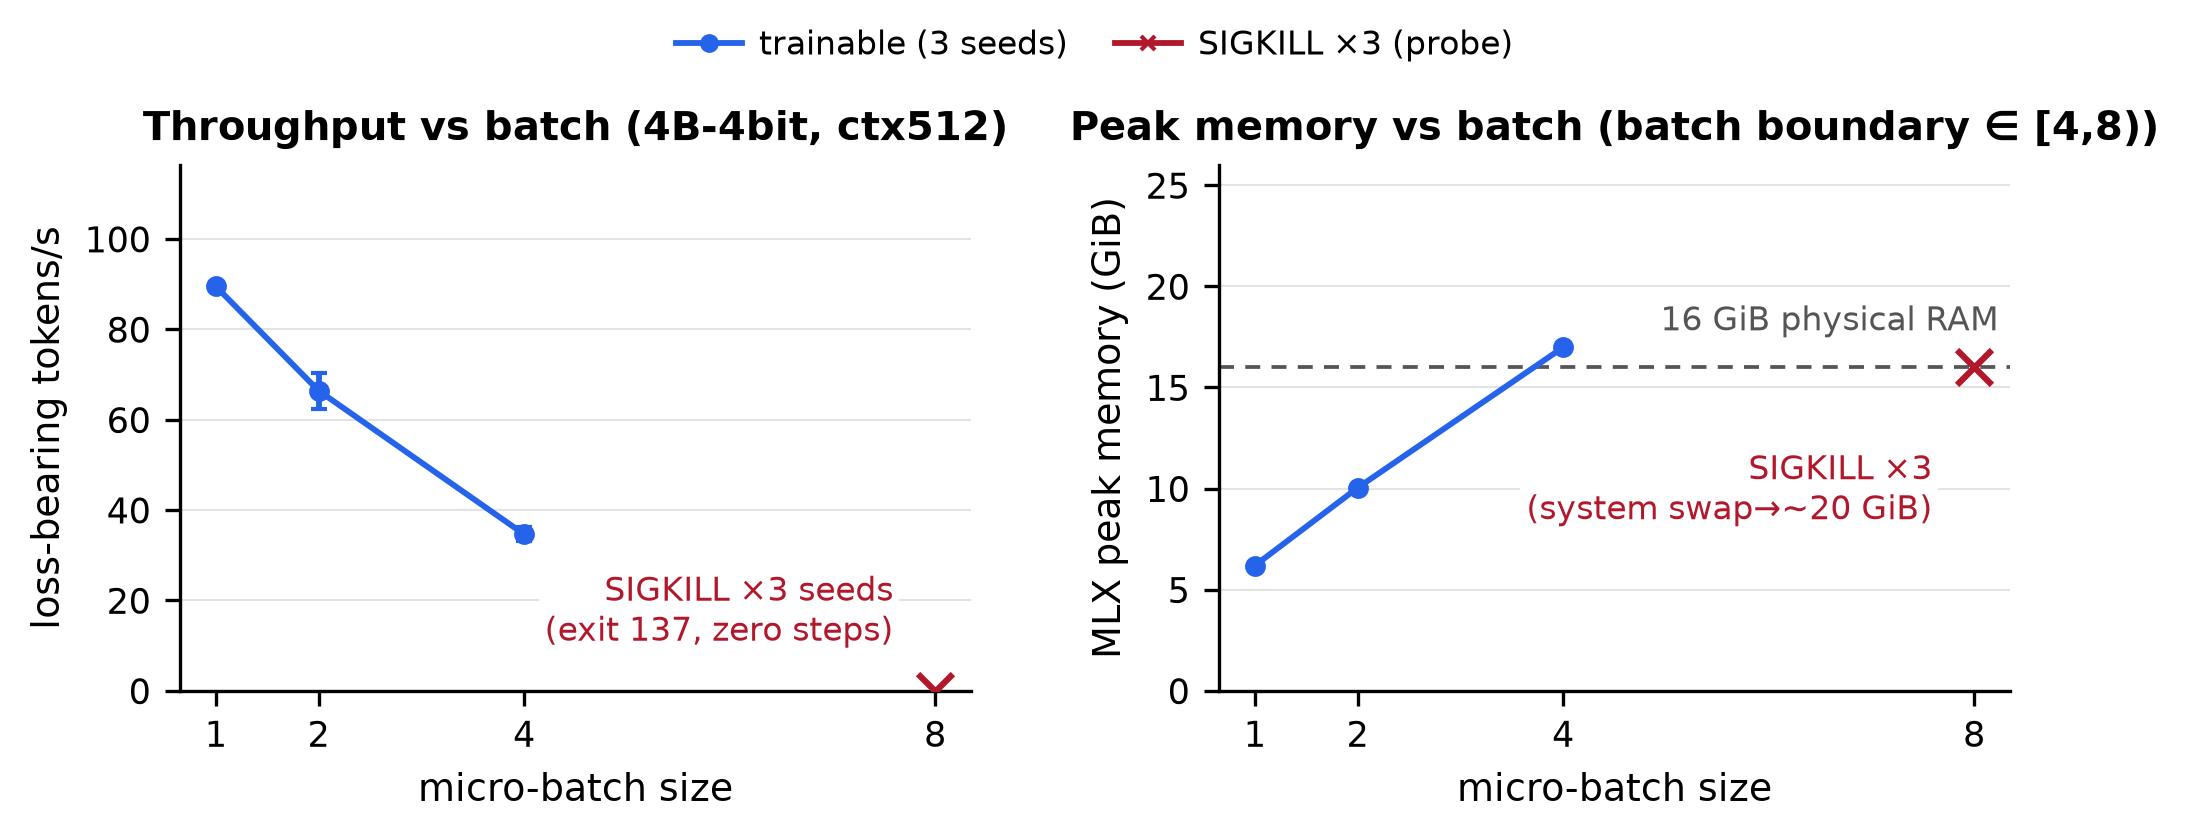
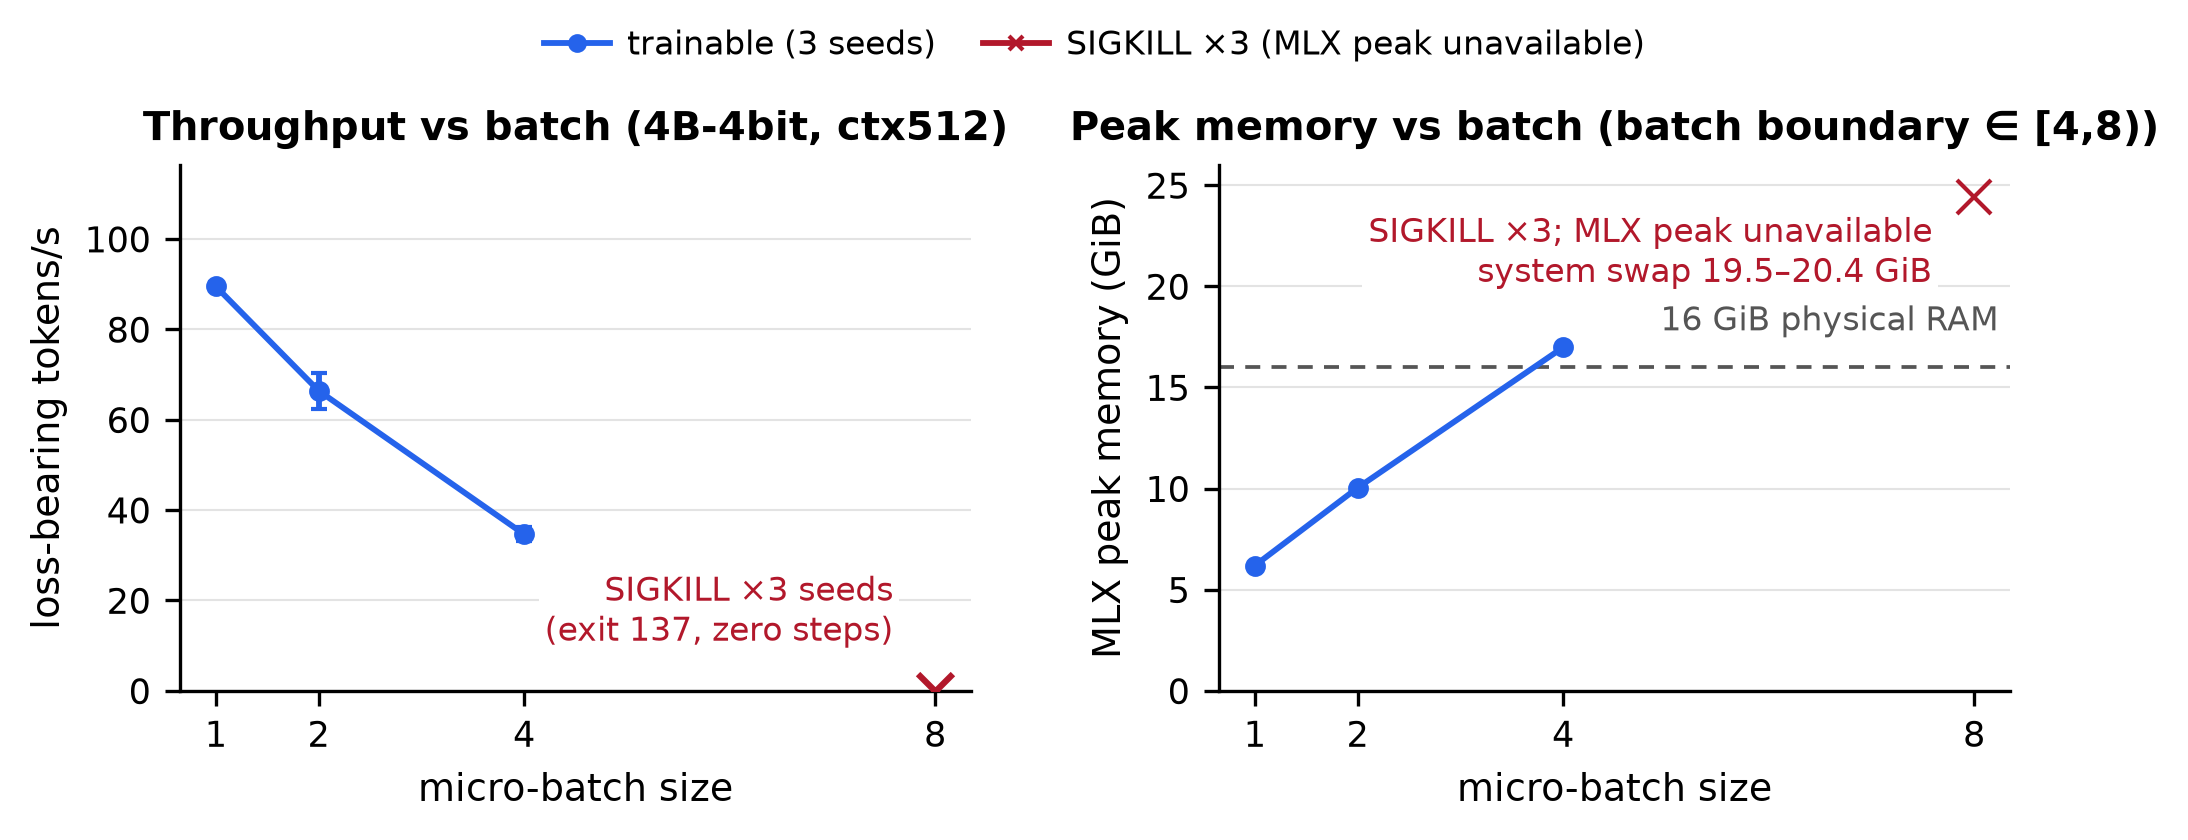
final: freeze arxiv v1 research artifact

diff --git a/tests/test_public_claim_consistency.py b/tests/test_public_claim_consistency.py
@@ -1,0 +1,78 @@
+"""Lightweight invariants for the frozen public claim chain."""
+
+from __future__ import annotations
+
+import csv
+import json
+import sys
+from pathlib import Path
+
+ROOT = Path(__file__).resolve().parents[1]
+sys.path.insert(0, str(ROOT / "src"))
+
+from analysis.coverage import build_coverage  # noqa: E402
+from analysis.flatten import build_tables  # noqa: E402
+
+
+def _ledger() -> dict[str, dict[str, str]]:
+    with (ROOT / "research" / "claim_ledger.csv").open(newline="", encoding="utf-8") as f:
+        return {row["claim_id"]: row for row in csv.DictReader(f)}
+
+
+def test_frozen_public_counts_and_manifest_warnings() -> None:
+    experiments, steps = build_tables(include_validation=False)
+    coverage = build_coverage(experiments)
+    assert len(experiments) == 118
+    assert int((experiments["status.terminal_state"] != "success").sum()) == 27
+    assert coverage["dispositions"]["aggregation_included"] == 46
+    assert int((experiments["_manifest_verified"] != True).sum()) == 6  # noqa: E712
+    assert len(steps) == 7180
+
+
+def test_completed_8b_seed_set_and_valid_batch8_evidence() -> None:
+    experiments, _ = build_tables(include_validation=False)
+    completed_8b = experiments[
+        (experiments["experiment.comparison_group_id"] == "formal-axis1-8b-4bit-qlora")
+        & (experiments["status.terminal_state"] == "success")
+    ]
+    assert set(completed_8b["training.seed"].astype(int)) == {42, 123, 2026}
+
+    coverage = build_coverage(experiments)
+    invalid_d5 = {
+        experiment_id
+        for experiment_id, row in coverage["per_run"].items()
+        if row["disposition"] == "excluded:implementation-invalid-d5"
+    }
+    ledger = _ledger()
+    for claim_id in ("C9", "C19"):
+        positive_ids = set(ledger[claim_id]["raw_source_ids"].split(";"))
+        assert len(positive_ids) == 3
+        assert all("20260915T" in experiment_id for experiment_id in positive_ids)
+        assert positive_ids.isdisjoint(invalid_d5)
+
+
+def test_14b_parser_and_monitor_coverage() -> None:
+    progress = json.loads((ROOT / "results" / "processed" / "failure_progress.json").read_text())
+    parsed_14b = [
+        row for row in progress["runs"]
+        if "14b-4bit" in row["experiment_id"] and row["parse_status"] == "parsed_steps"
+    ]
+    assert len(parsed_14b) == 1
+    assert parsed_14b[0]["observed_completed_steps"] == 70
+    assert parsed_14b[0]["last_observed_step"] == 70
+
+    state = json.loads((ROOT / "results" / "processed" / "system_state.json").read_text())
+    assert state["monitor_coverage"]["runs_parsed_ge10_samples"] == 95
+
+
+def test_public_claim_sources_exist() -> None:
+    for row in _ledger().values():
+        for source in row["processed_source"].split(";"):
+            path = source.split("#", 1)[0]
+            assert (ROOT / path).exists(), (row["claim_id"], path)
+        raw_ids = [item for item in row["raw_source_ids"].split(";") if item]
+        assert raw_ids, row["claim_id"]
+        for experiment_id in raw_ids:
+            assert (ROOT / "results" / "raw" / experiment_id).is_dir(), (
+                row["claim_id"], experiment_id
+            )

diff --git a/src/analysis/figures.py b/src/analysis/figures.py
@@ -557,10 +557,14 @@ def fig7_batch_axis(df: pd.DataFrame) -> None:
 
     axes[1].errorbar(xs, mem, yerr=meme, marker="o", ms=4, lw=1.4,
                      color=Q4_COLOR, capsize=2)
-    axes[1].scatter([8], [16], marker="x", s=70, color=KILL_COLOR, zorder=5)
-    axes[1].annotate("SIGKILL ×3\n(system swap→~20 GiB)",
-                     xy=(8, 16), fontsize=8, color=KILL_COLOR,
-                     xytext=(-10, -20), textcoords="offset points", ha="right",
+    # Place the failure marker at the panel top rather than at a measured
+    # y-value: historical b8 instrumentation recorded no MLX allocator peak.
+    axes[1].plot([8], [0.94], marker="x", ms=8, color=KILL_COLOR,
+                 transform=axes[1].get_xaxis_transform(), zorder=5)
+    axes[1].annotate("SIGKILL ×3; MLX peak unavailable\nsystem swap 19.5–20.4 GiB",
+                     xy=(8, 0.94), xycoords=axes[1].get_xaxis_transform(),
+                     fontsize=8, color=KILL_COLOR,
+                     xytext=(-10, -4), textcoords="offset points", ha="right",
                      va="top",
                      bbox=dict(boxstyle="square,pad=0.18", fc="white",
                                ec="none", alpha=1.0))
@@ -571,7 +575,7 @@ def fig7_batch_axis(df: pd.DataFrame) -> None:
     axes[1].set_title("Peak memory vs batch (batch boundary ∈ [4,8))",
                       fontsize=9.5)
     _legend_out(fig, [(Q4_COLOR, "trainable (3 seeds)", "o"),
-                      (KILL_COLOR, "SIGKILL ×3 (probe)", "x")], ncol=2)
+                      (KILL_COLOR, "SIGKILL ×3 (MLX peak unavailable)", "x")], ncol=2)
     _save(fig, "fig7_batch_axis")
 
 

diff --git a/src/analysis/tables.py b/src/analysis/tables.py
@@ -443,7 +443,7 @@ def table5(df: pd.DataFrame) -> None:
         "one window; mean$\\pm$SD; paging is the D4 whole-run swap-in "
         "delta normalized by completed training steps "
         "measure, all cells Tier-B; batch-8 kills recorded zero completed "
-        "steps with empty stdout).}",
+        "steps with empty stdout, so the MLX allocator peak is unavailable).}",
         "\\label{tab:batch}", "\\footnotesize\\setlength{\\tabcolsep}{2.8pt}",
         "\\begin{tabular}{rrrrrl}", "\\toprule",
         "Batch & Median step (s) & Tok/s & Peak mem (GiB) & "
@@ -472,7 +472,7 @@ def table5(df: pd.DataFrame) -> None:
                                   errors="coerce").max()
         swap_txt = (f"near {swap_peak / 2**30:.0f}\\,GiB"
                     if pd.notna(swap_peak) else "")
-        lines.append(f"8 & -- & -- & $>$16 & -- & "
+        lines.append(f"8 & -- & -- & -- & -- & "
                      f"SIGKILL$\\times${len(b8)} (exit 137; system swap "
                      f"{swap_txt})\\\\")
     else:

diff --git a/research/deviations_public.md b/research/deviations_public.md
@@ -1,6 +1,6 @@
 # Public preregistration deviation summary
 
-The preregistration was frozen before formal execution. This record reports D1-D12 in a normalized scientific format. Raw evidence remains immutable.
+The preregistration was frozen before formal execution. This record reports D1-D12 in a normalized scientific format. Public raw evidence preserves the scientific content; privacy-only transformations are explicitly mapped.
 
 ## D1
 
